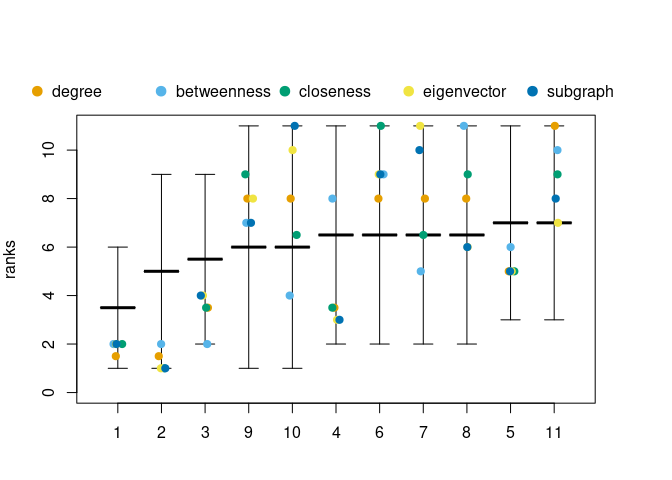
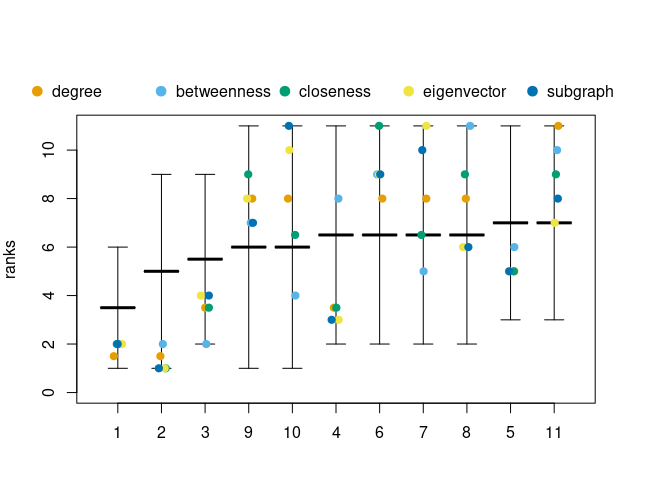
reflect changes in README

diff --git a/README.md b/README.md
@@ -77,11 +77,8 @@ We work with the following small graph.
 library(igraph)
 library(netrankr)
 
-g <- graph.empty(n = 11, directed = FALSE)
-g <- add_edges(g, c(
-  1, 11, 2, 4, 3, 5, 3, 11, 4, 8, 5, 9, 5, 11, 6, 7, 6, 8,
-  6, 10, 6, 11, 7, 9, 7, 10, 7, 11, 8, 9, 8, 10, 9, 10
-))
+data("dbces11")
+g <- dbces11
 ```
 
 <img src="man/figures/README-dbces_neutral-1.png" width="80%" style="display: block; margin: auto;" />
@@ -93,11 +90,11 @@ the centrality indices vignette.
 
 ``` r
 cent_scores <- data.frame(
-  degree = degree(g),
-  betweenness = round(betweenness(g), 4),
-  closeness = round(closeness(g), 4),
-  eigenvector = round(eigen_centrality(g)$vector, 4),
-  subgraph = round(subgraph_centrality(g), 4)
+    degree = degree(g),
+    betweenness = round(betweenness(g), 4),
+    closeness = round(closeness(g), 4),
+    eigenvector = round(eigen_centrality(g)$vector, 4),
+    subgraph = round(subgraph_centrality(g), 4)
 )
 
 # What are the most central nodes for each index?
